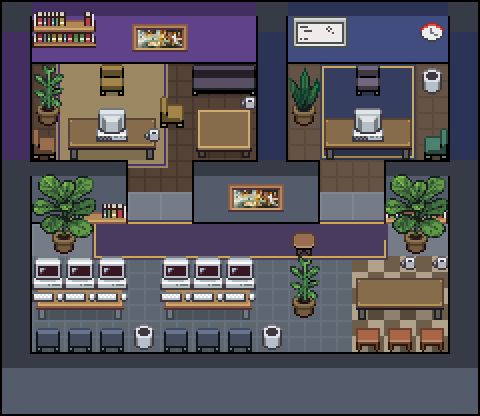
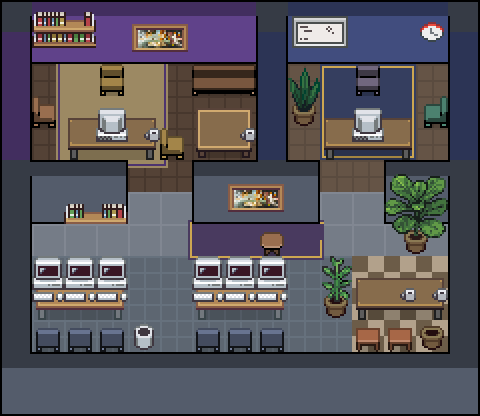
компакт: правки трёх судей (диван когнак, кружки на стойке, ровные бенчи, коврик между дверей)

diff --git a/layouts/compact/spec.py b/layouts/compact/spec.py
@@ -53,30 +53,29 @@ FURNITURE = [
   ('DOUBLE_BOOKSHELF', 1, -1), ('LARGE_PAINTING', 4, -1),
   ('CUSHIONED_CHAIR_FRONT', 3, 1, GOLD_SEAT),
   ('DESK_FRONT', 2, 2, WOOD_DARK), ('PC_BACK', 3, 2), ('COFFEE', 4, 3),
-  ('CUSHIONED_CHAIR_SIDE', 1, 3, COGNAC),
-  ('SOFA_FRONT', 6, 1, LEATHER), ('COFFEE_TABLE', 6, 2, WOOD_DARK), ('COFFEE', 7, 2),
-  ('CUSHIONED_CHAIR_SIDE', 5, 2, GOLD_SEAT),
-  ('PLANT', 1, 1),
+  ('CUSHIONED_CHAIR_SIDE', 1, 2, COGNAC),
+  ('SOFA_FRONT', 6, 1, COGNAC), ('COFFEE_TABLE', 6, 2, WOOD_DARK), ('COFFEE', 7, 3),
+  ('CUSHIONED_CHAIR_SIDE', 5, 3, GOLD_SEAT),
   # ---- CTO (cols 9-13, rows 1-3): smaller, navy, green velvet visitor chair
   ('WHITEBOARD', 9, -1), ('CLOCK', 13, -1),
   ('CUSHIONED_CHAIR_FRONT', 11, 1, LEATHER),
   ('DESK_FRONT', 10, 2, WOOD_DARK), ('PC_BACK', 11, 2),
-  ('CUSHIONED_CHAIR_SIDE:left', 13, 3, VELVET_GRN),
-  ('PLANT_2', 9, 1), ('BIN', 13, 1),
+  ('CUSHIONED_CHAIR_SIDE:left', 13, 2, VELVET_GRN),
+  ('PLANT_2', 9, 1),
   # ---- Corridor (row 6): runner, art on the row-5 wall, a tall plant at each end
-  ('BOOKSHELF', 2, 5), ('LARGE_PAINTING', 7, 4), ('BOOKSHELF', 12, 5),
-  ('LARGE_PLANT', 1, 4), ('LARGE_PLANT', 12, 4), ('CUSHIONED_BENCH', 9, 6, COGNAC),
+  ('BOOKSHELF', 2, 5), ('LARGE_PAINTING', 7, 4),
+  ('LARGE_PLANT', 12, 4), ('CUSHIONED_BENCH', 8, 6, COGNAC),
   # ---- Staff floor (cols 1-10, rows 7-9): two bench desks, three seats each
   ('DESK_FRONT', 1, 7), ('PC_FRONT_OFF', 1, 7), ('PC_FRONT_OFF', 2, 7), ('PC_FRONT_OFF', 3, 7),
   ('CUSHIONED_CHAIR_BACK', 1, 9, STAFF_SEAT), ('CUSHIONED_CHAIR_BACK', 2, 9, STAFF_SEAT),
   ('CUSHIONED_CHAIR_BACK', 3, 9, STAFF_SEAT),
-  ('DESK_FRONT', 5, 7), ('PC_FRONT_OFF', 5, 7), ('PC_FRONT_OFF', 6, 7), ('PC_FRONT_OFF', 7, 7),
-  ('CUSHIONED_CHAIR_BACK', 5, 9, STAFF_SEAT), ('CUSHIONED_CHAIR_BACK', 6, 9, STAFF_SEAT),
-  ('CUSHIONED_CHAIR_BACK', 7, 9, STAFF_SEAT),
-  ('PLANT', 9, 7), ('BIN', 4, 9), ('BIN', 8, 9),
+  ('DESK_FRONT', 6, 7), ('PC_FRONT_OFF', 6, 7), ('PC_FRONT_OFF', 7, 7), ('PC_FRONT_OFF', 8, 7),
+  ('CUSHIONED_CHAIR_BACK', 6, 9, STAFF_SEAT), ('CUSHIONED_CHAIR_BACK', 7, 9, STAFF_SEAT),
+  ('CUSHIONED_CHAIR_BACK', 8, 9, STAFF_SEAT),
+  ('PLANT', 10, 7), ('BIN', 4, 9),
   # ---- Cafe (cols 11-13, rows 7-9): counter with mugs, three stools
-  ('DESK_FRONT', 11, 7, WOOD_DARK), ('COFFEE', 12, 7), ('COFFEE', 13, 7),
-  ('WOODEN_BENCH', 11, 9, CAFE_SEAT), ('WOODEN_BENCH', 12, 9, CAFE_SEAT), ('WOODEN_BENCH', 13, 9, CAFE_SEAT),
+  ('DESK_FRONT', 11, 7, WOOD_DARK), ('COFFEE', 12, 8), ('COFFEE', 13, 8),
+  ('WOODEN_BENCH', 11, 9, CAFE_SEAT), ('WOODEN_BENCH', 12, 9, CAFE_SEAT), ('POT', 13, 9),
 ]
 
 RUG_VIOLET = {'h': 265, 's': 36, 'b': -36, 'c': -22}
@@ -88,7 +87,7 @@ RUG_RUNNER = {'h': 265, 's': 24, 'b': -40, 'c': -22}
 CARPETS = [
   {'variant': 0, 'col': 2, 'row': 1, 'w': 3, 'h': 3, 'color': RUG_CREAM, 'accent': RUG_VIOLET},  # CEO desk
   {'variant': 2, 'col': 10, 'row': 1, 'w': 3, 'h': 3, 'color': RUG_NAVY, 'accent': RUG_GOLD},    # CTO
-  {'variant': 1, 'col': 3, 'row': 6, 'w': 9, 'h': 1, 'color': RUG_RUNNER, 'accent': RUG_GOLD},   # corridor runner
+  {'variant': 1, 'col': 6, 'row': 6, 'w': 4, 'h': 1, 'color': RUG_RUNNER, 'accent': RUG_GOLD},   # corridor mat between the doors
 ]
 
 PETS = [0, 1]
